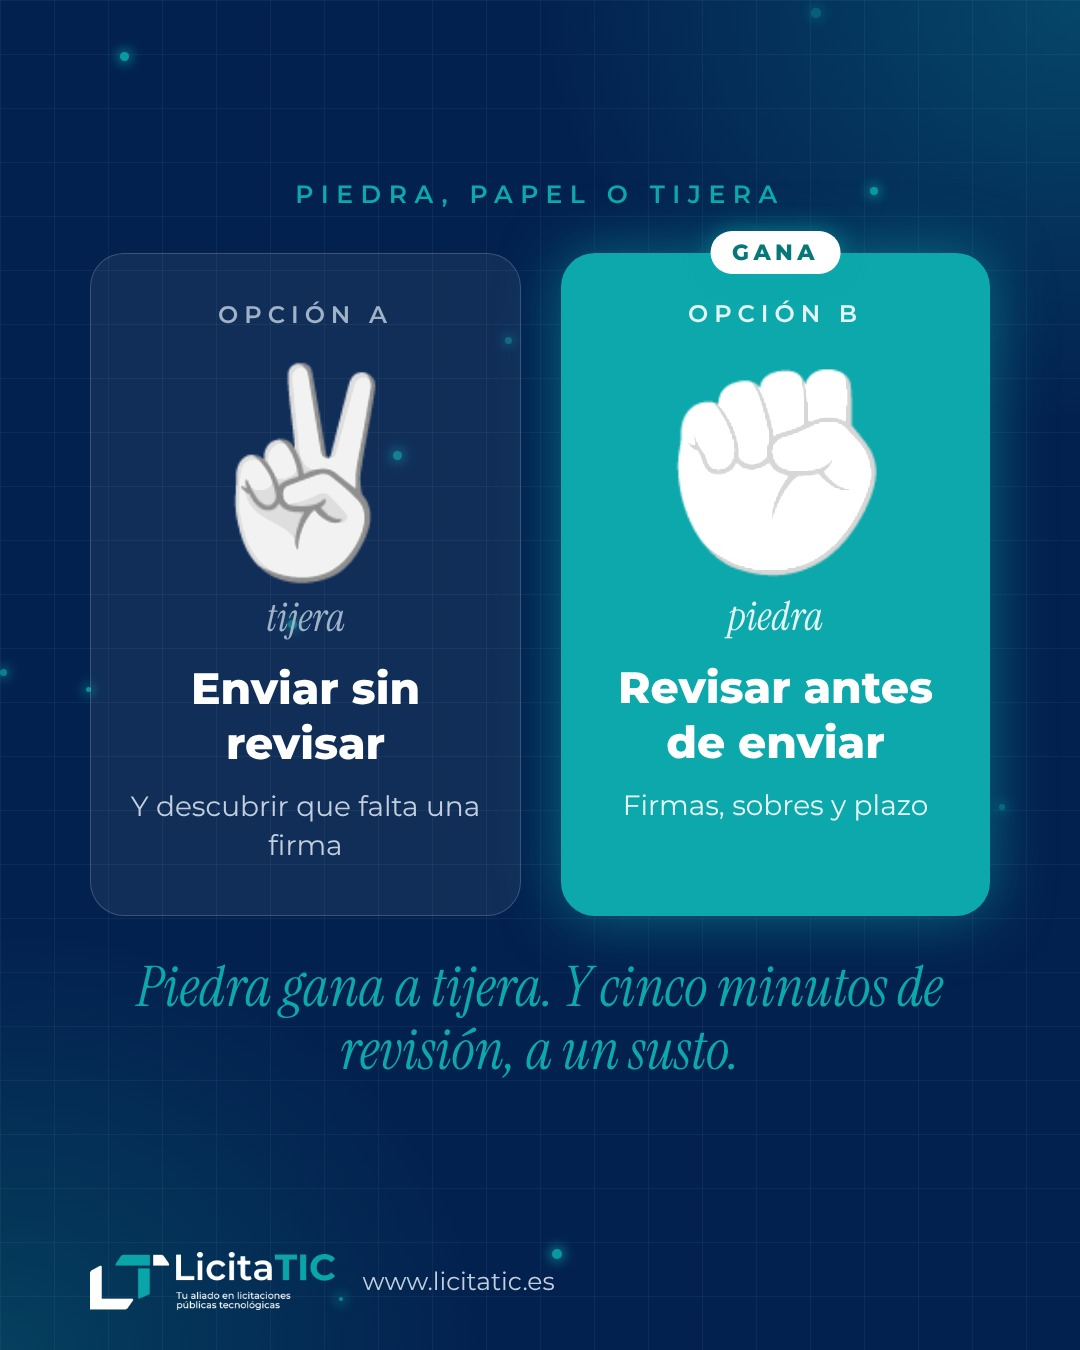
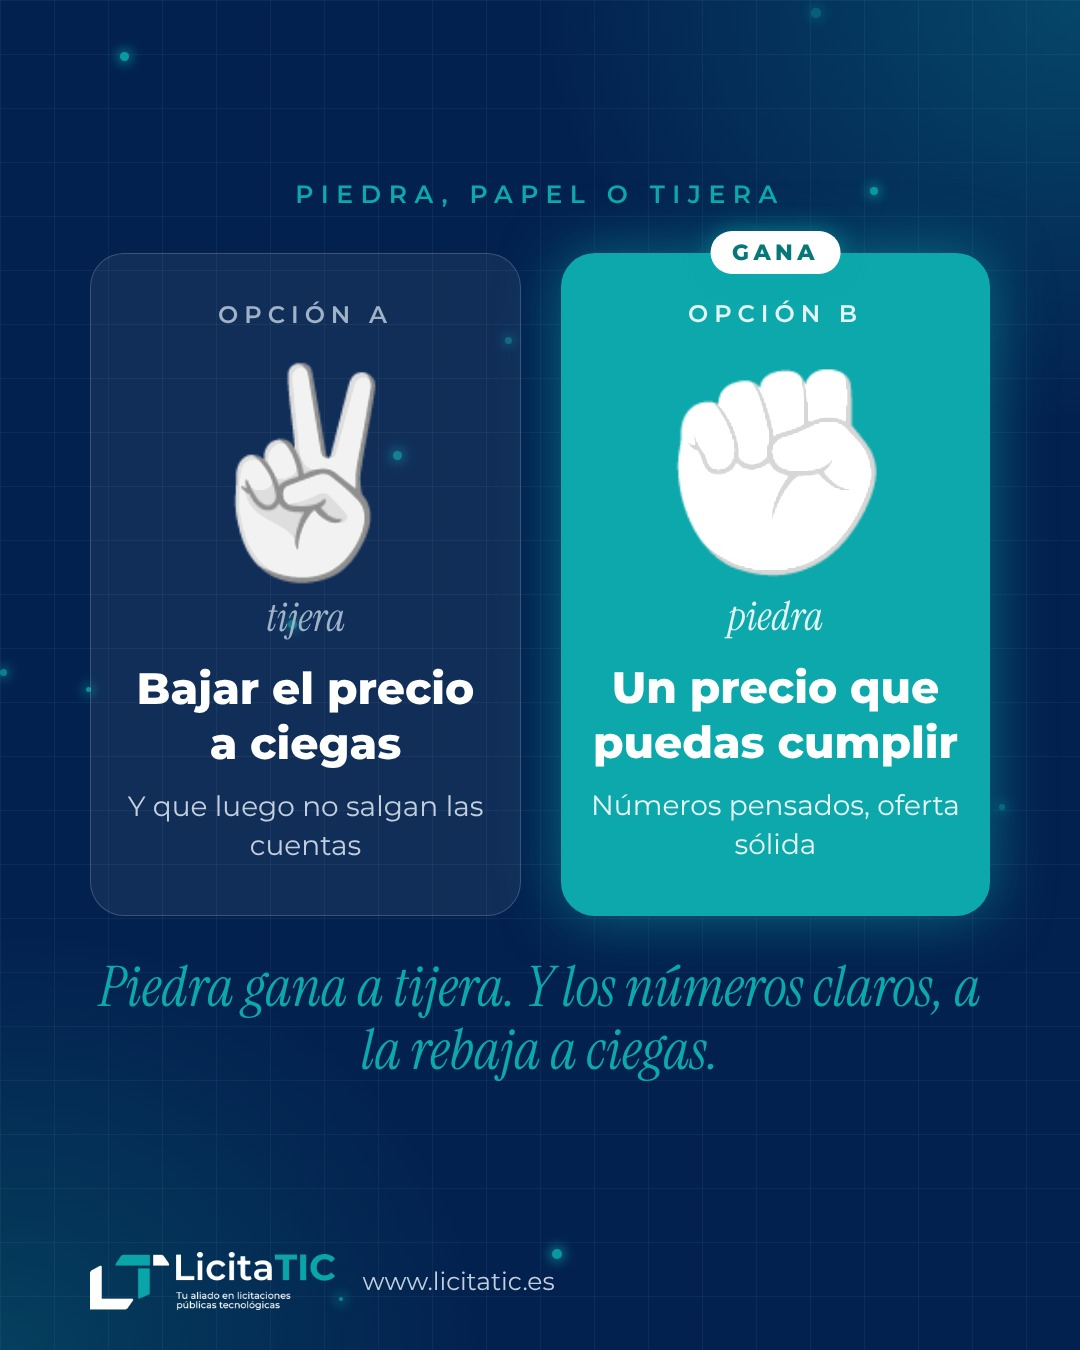
Piedra, papel o tijera: cambia las piezas 1 y 3 por temas nuevos
Claude-Session: https://claude.ai/code/session_01G7Cs1Z1EUiW4C5Cw2dQC6n

Changed region(s): [[0.0917, 0.7156, 0.9167, 0.8089], [0.55, 0.4978, 0.8861, 0.6533], [0.1222, 0.4978, 0.4583, 0.6533]]

diff --git a/piedra-papel-tijera/Texto_publicacion.md b/piedra-papel-tijera/Texto_publicacion.md
@@ -1,12 +1,12 @@
 # Piedra, papel o tijera · 3 piezas nuevas · LicitaTIC
 Imagen única. `instagram-4x5/` = Instagram y Facebook (y LinkedIn como imagen) · `tiktok-9x16/` = TikTok y Stories. En Stories, añade una encuesta «A / B».
 
-## 1 · Papel gana a piedra (el margen, a las prisas)
+## 1 · Papel gana a piedra (lo hecho a medida, al copia y pega)
 **Instagram / Facebook / TikTok**
-Piedra, papel o tijera ✊✋ Opción A: dejarlo para el último día. Opción B: preparar con margen. ¿Tú qué sacas? 👇
-#LicitacionesTIC #ContrataciónPública #Pymes #SectorTIC
+Piedra, papel o tijera ✊✋ Opción A: copiar la memoria de la licitación anterior. Opción B: adaptarla a este pliego. ¿Tú qué sacas? 👇
+#LicitacionesTIC #ContrataciónPública #MemoriaTécnica #Pymes
 **LinkedIn**
-Dejarlo para el último día o preparar la oferta con días de margen. Las plataformas también se saturan cerca del cierre. ¿Cuál es vuestra jugada? #ContrataciónPública #LicitacionesPúblicas #SectorTIC
+Reutilizar una memoria técnica ahorra tiempo, pero cada pliego pide cosas distintas. Adaptarla es lo que marca la diferencia. ¿Copiáis o adaptáis? #ContrataciónPública #LicitacionesPúblicas #SectorTIC
 
 ## 2 · Tijera gana a papel (lo concreto, al relleno)
 **Instagram / Facebook / TikTok**
@@ -15,9 +15,9 @@ Piedra, papel o tijera ✋✌ Una memoria de 200 páginas o ir directo a lo q
 **LinkedIn**
 Una memoria técnica más larga no puntúa más. Lo que cuenta es responder, punto por punto, a los criterios del pliego. ¿Recortáis o rellenáis? #ContrataciónPública #LicitacionesPúblicas #SectorTIC
 
-## 3 · Piedra gana a tijera (revisar, antes que un susto)
+## 3 · Piedra gana a tijera (los números claros, a la rebaja a ciegas)
 **Instagram / Facebook / TikTok**
-Piedra, papel o tijera ✌✊ Enviar sin revisar o repasar firmas, sobres y plazo antes de pulsar Enviar. ¿Tú qué sacas? 👇
+Piedra, papel o tijera ✌✊ Bajar el precio a ciegas o poner un precio que puedas cumplir. ¿Tú qué sacas? 👇
 #LicitacionesTIC #ContrataciónPública #Pymes #SectorTIC
 **LinkedIn**
-Cinco minutos de revisión antes de enviar: firmas, cada documento en su sobre y el plazo. Evitan muchos sustos. ¿Tenéis vuestra checklist? #ContrataciónPública #LicitacionesPúblicas #SectorTIC
+Bajar el precio sin hacer números puede dejarte una oferta que luego no puedes cumplir. Mejor un precio pensado y una oferta sólida. ¿Cómo calculáis el vuestro? #ContrataciónPública #LicitacionesPúblicas #SectorTIC
